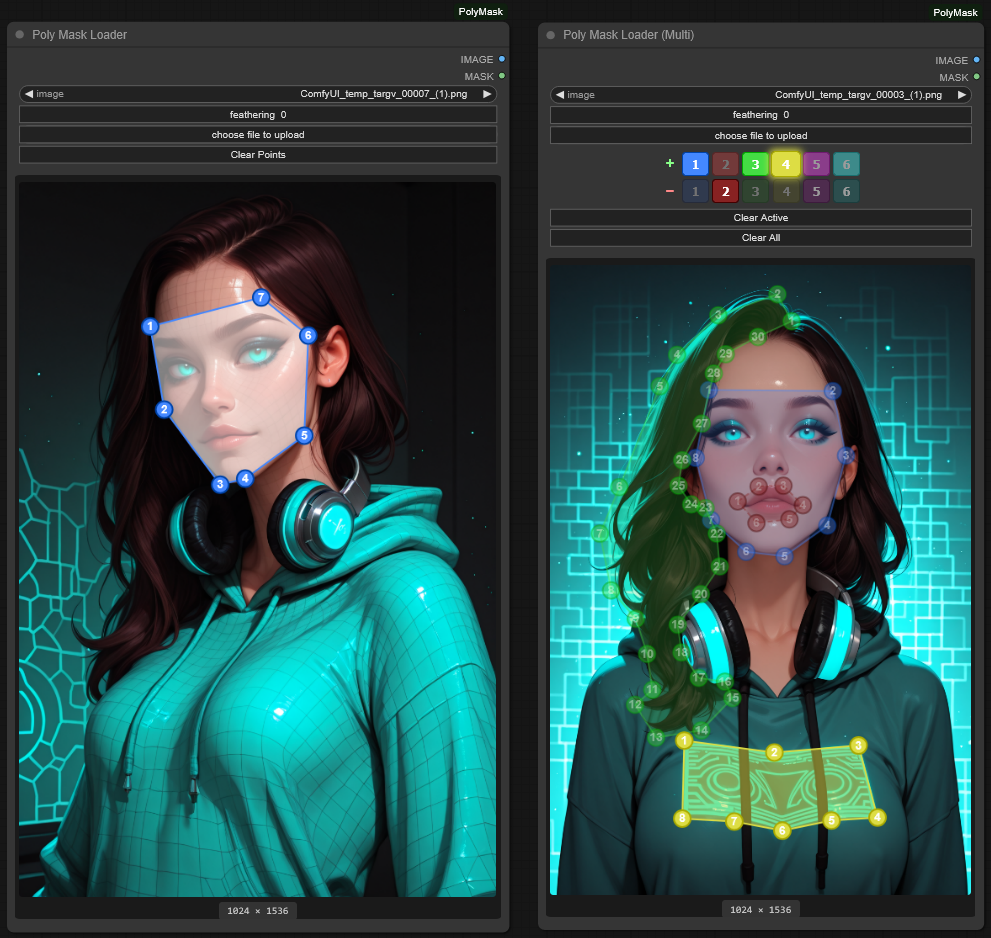
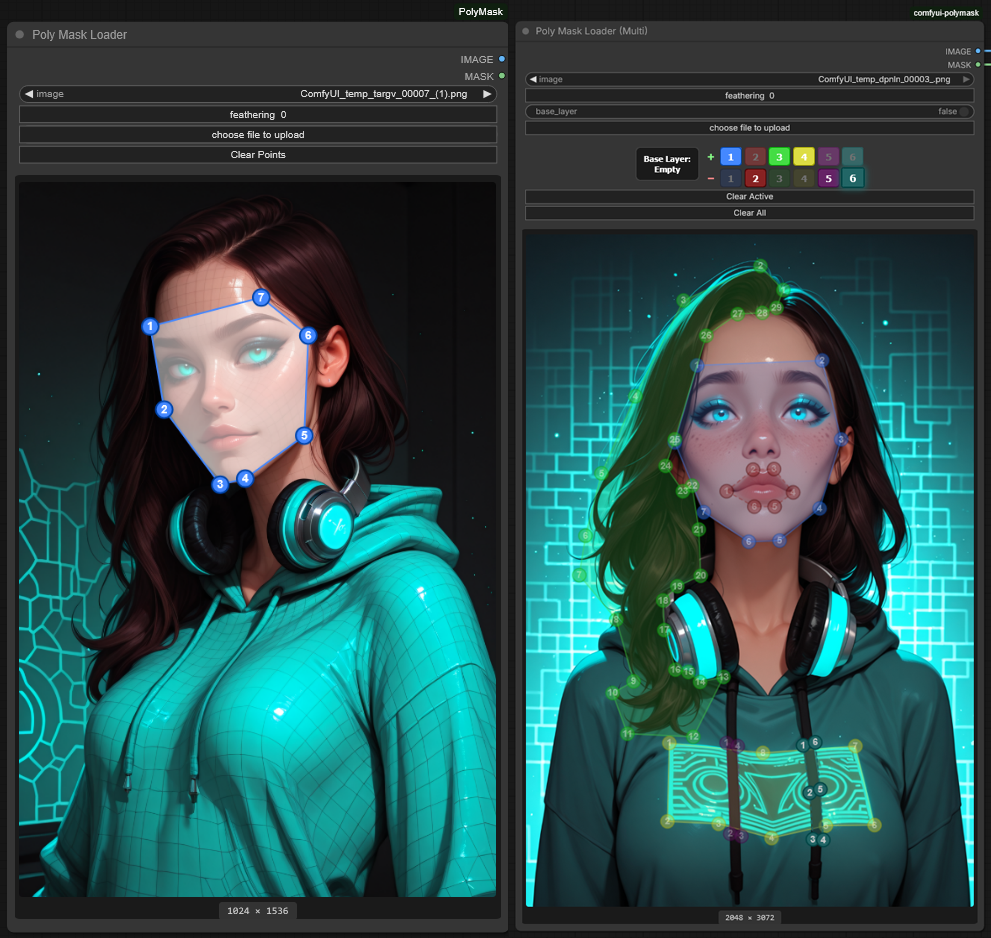
Added 'Base Layer: Empty / Full' Functionality to the multi polygon node.

Changed region(s): [[0.5146, 0.0, 1.0, 1.0]]

diff --git a/js/poly_mask_multi_widget.js b/js/poly_mask_multi_widget.js
@@ -29,6 +29,8 @@ app.registerExtension({
             this.draggingPointIndex = -1;
             this.draggingPointPolygon = -1;
             this.currentCanvasHeight = 200;
+            // Base layer: true (mask starts filled/full) or false (mask starts empty)
+            this.baseLayer = false;
             
             // Configuration
             this.pointRadius = 10;
@@ -98,13 +100,20 @@ app.registerExtension({
             // Find image widget
             const imageWidget = this.widgets.find(w => w.name === "image");
             
-            // Create polygon selector buttons container with two rows
+            // Create polygon selector buttons container with two rows + base toggle on right
             const selectorContainer = document.createElement("div");
             selectorContainer.style.display = "flex";
-            selectorContainer.style.flexDirection = "column";
-            selectorContainer.style.gap = "4px";
+            selectorContainer.style.flexDirection = "row";
+            selectorContainer.style.gap = "8px";
             selectorContainer.style.justifyContent = "center";
+            selectorContainer.style.alignItems = "stretch";
             selectorContainer.style.padding = "4px";
+            
+            // Left side: polygon rows
+            const polygonRowsContainer = document.createElement("div");
+            polygonRowsContainer.style.display = "flex";
+            polygonRowsContainer.style.flexDirection = "column";
+            polygonRowsContainer.style.gap = "4px";
             
             // Additive row
             const addRow = document.createElement("div");
@@ -219,15 +228,52 @@ app.registerExtension({
                 this.polygonButtonsSub.push(btnSub);
             }
             
-            selectorContainer.appendChild(addRow);
-            selectorContainer.appendChild(subRow);
+            polygonRowsContainer.appendChild(addRow);
+            polygonRowsContainer.appendChild(subRow);
+            
+            // Base Layer toggle button (spans both rows on the LEFT)
+            const baseToggleBtn = document.createElement("button");
+            baseToggleBtn.textContent = "Base Layer:\nEmpty";
+            baseToggleBtn.style.minWidth = "70px";
+            baseToggleBtn.style.padding = "4px 10px";
+            baseToggleBtn.style.borderRadius = "6px";
+            baseToggleBtn.style.border = "2px solid #444";
+            baseToggleBtn.style.background = "#1a1a1a";
+            baseToggleBtn.style.color = "#fff";
+            baseToggleBtn.style.fontWeight = "bold";
+            baseToggleBtn.style.fontSize = "12px";
+            baseToggleBtn.style.cursor = "pointer";
+            baseToggleBtn.style.whiteSpace = "pre-line";
+            baseToggleBtn.style.lineHeight = "1.3";
+            baseToggleBtn.style.textAlign = "center";
+            baseToggleBtn.style.transition = "background 0.15s, border-color 0.15s";
+
+            baseToggleBtn.addEventListener("click", () => {
+                node.baseLayer = !node.baseLayer;
+                node.updateBaseLayerButton();
+                node.updatePolygonData();
+                node.renderCanvas();
+            });
+
+            baseToggleBtn.addEventListener("mouseenter", () => {
+                baseToggleBtn.style.background = node.baseLayer ? "#4a4a4a" : "#2a2a2a";
+            });
+            baseToggleBtn.addEventListener("mouseleave", () => {
+                baseToggleBtn.style.background = node.baseLayer ? "#3a3a3a" : "#1a1a1a";
+            });
+
+            this.baseToggleBtn = baseToggleBtn;
+            
+            // Add base button on LEFT, then polygon rows
+            selectorContainer.appendChild(baseToggleBtn);
+            selectorContainer.appendChild(polygonRowsContainer);
             
             // Add selector as DOM widget
             const selectorWidget = this.addDOMWidget("polygon_selector", "POLYGON_SELECTOR", selectorContainer, {
                 serialize: false,
             });
             selectorWidget.computeSize = function() {
-                return [200, 70];
+                return [320, 74];
             };
             
             // Add Clear Active button
@@ -242,9 +288,28 @@ app.registerExtension({
                 for (let i = 0; i < 6; i++) {
                     node.polygons[i].points = [];
                 }
+                // Also reset base layer to empty
+                if (node.baseLayer) {
+                    node.baseLayer = false;
+                    node.updateBaseLayerButton();
+                }
                 node.updatePolygonData();
                 node.renderCanvas();
             });
+
+            // If the underlying node input widget exists, set its initial value and watch for changes
+            const baseWidgetInit = this.widgets.find(w => w.name === "base_layer");
+            if (baseWidgetInit) {
+                baseWidgetInit.value = this.baseLayer;
+                // Watch for changes from the widget toggle
+                const origCallback = baseWidgetInit.callback;
+                baseWidgetInit.callback = function(value) {
+                    if (origCallback) origCallback.apply(this, arguments);
+                    node.baseLayer = value;
+                    node.updateBaseLayerButton();
+                    node.renderCanvas();
+                };
+            }
             
             // Create container for our canvas
             const container = document.createElement("div");
@@ -542,6 +607,37 @@ app.registerExtension({
             return null;
         };
         
+        // Check if any polygon has points
+        nodeType.prototype.hasAnyPolygonPoints = function() {
+            for (let i = 0; i < 6; i++) {
+                if (this.polygons[i].points.length > 0) {
+                    return true;
+                }
+            }
+            return false;
+        };
+        
+        // Update base layer button appearance to match current state
+        nodeType.prototype.updateBaseLayerButton = function() {
+            if (this.baseToggleBtn) {
+                this.baseToggleBtn.textContent = this.baseLayer ? "Base Layer:\nFull" : "Base Layer:\nEmpty";
+                this.baseToggleBtn.style.background = this.baseLayer ? "#3a3a3a" : "#1a1a1a";
+                this.baseToggleBtn.style.borderColor = this.baseLayer ? "#888" : "#444";
+            }
+            const baseWidget = this.widgets?.find(w => w.name === "base_layer");
+            if (baseWidget) baseWidget.value = this.baseLayer;
+        };
+        
+        // Auto-switch base layer to full if adding subtractive polygon with no existing points
+        nodeType.prototype.autoSwitchBaseLayerIfNeeded = function() {
+            const activeMode = this.polygons[this.activePolygonIndex].mode;
+            // If in subtractive mode and no polygons have points yet, switch base to full
+            if (activeMode === "subtract" && !this.hasAnyPolygonPoints() && !this.baseLayer) {
+                this.baseLayer = true;
+                this.updateBaseLayerButton();
+            }
+        };
+        
         // Setup canvas events
         nodeType.prototype.setupCanvasEvents = function() {
             const node = this;
@@ -585,6 +681,7 @@ app.registerExtension({
                         canvas.setPointerCapture(e.pointerId);
                     } else if (node.hoveredLineIndex !== -1) {
                         // Insert point on active polygon's line
+                        node.autoSwitchBaseLayerIfNeeded();
                         const imgCoords = node.canvasToImage(x, y);
                         const insertIndex = node.hoveredLineIndex + 1;
                         node.polygons[node.activePolygonIndex].points.splice(insertIndex, 0, { x: imgCoords.x, y: imgCoords.y });
@@ -594,6 +691,7 @@ app.registerExtension({
                         node.renderCanvas();
                     } else {
                         // Add point to active polygon
+                        node.autoSwitchBaseLayerIfNeeded();
                         const imgCoords = node.canvasToImage(x, y);
                         node.polygons[node.activePolygonIndex].points.push({ x: imgCoords.x, y: imgCoords.y });
                         node.updatePolygonData();
@@ -734,6 +832,18 @@ app.registerExtension({
                 } catch (e) {
                     return;
                 }
+                // Visualize base layer: subtle overlay + white border when base is full (true)
+                if (this.baseLayer) {
+                    ctx.save();
+                    // Subtle white overlay
+                    ctx.fillStyle = "rgba(255,255,255,0.08)";
+                    ctx.fillRect(0, 0, w, h);
+                    // White border outline
+                    ctx.strokeStyle = "rgba(255,255,255,0.7)";
+                    ctx.lineWidth = 4;
+                    ctx.strokeRect(2, 2, w - 4, h - 4);
+                    ctx.restore();
+                }
             } else {
                 ctx.fillStyle = "#555";
                 ctx.font = "14px sans-serif";
@@ -855,6 +965,7 @@ app.registerExtension({
             if (onSerialize) onSerialize.apply(this, arguments);
             o.multi_polygons = this.polygons;
             o.multi_activeIndex = this.activePolygonIndex;
+            o.multi_baseLayer = this.baseLayer;
         };
         
         // Deserialization
@@ -874,6 +985,16 @@ app.registerExtension({
             
             if (o.multi_activeIndex !== undefined) {
                 this.activePolygonIndex = o.multi_activeIndex;
+            }
+
+            if (o.multi_baseLayer !== undefined) {
+                // Handle both old string format and new boolean format for backwards compatibility
+                if (typeof o.multi_baseLayer === "string") {
+                    this.baseLayer = o.multi_baseLayer === "full";
+                } else {
+                    this.baseLayer = o.multi_baseLayer;
+                }
+                this.updateBaseLayerButton();
             }
             
             this.updatePolygonData();

diff --git a/poly_mask_node_multi.py b/poly_mask_node_multi.py
@@ -34,22 +34,23 @@ class PolyMaskNodeMulti:
                     "display": "slider"
                 }),
                 "polygon_data": ("STRING", {"default": "[]", "multiline": False}),
+                "base_layer": ("BOOLEAN", {"default": False}),
             },
         }
     
     @classmethod
-    def IS_CHANGED(cls, image, feathering, polygon_data="[]"):
+    def IS_CHANGED(cls, image, feathering, polygon_data="[]", base_layer=False):
         image_path = folder_paths.get_annotated_filepath(image)
         m_time = os.path.getmtime(image_path)
-        return f"{image}_{m_time}_{feathering}_{polygon_data}"
+        return f"{image}_{m_time}_{feathering}_{polygon_data}_{base_layer}"
     
     @classmethod
-    def VALIDATE_INPUTS(cls, image, feathering, polygon_data="[]"):
+    def VALIDATE_INPUTS(cls, image, feathering, polygon_data="[]", base_layer=False):
         if not folder_paths.exists_annotated_filepath(image):
             return f"Invalid image file: {image}"
         return True
     
-    def load_image_and_mask(self, image, feathering, polygon_data="[]"):
+    def load_image_and_mask(self, image, feathering, polygon_data="[]", base_layer=False):
         image_path = folder_paths.get_annotated_filepath(image)
         img = Image.open(image_path)
         
@@ -71,7 +72,7 @@ class PolyMaskNodeMulti:
             polygons = []
         
         width, height = img.size
-        mask_array = self._create_combined_mask(width, height, polygons, feathering)
+        mask_array = self._create_combined_mask(width, height, polygons, feathering, base_layer)
         
         mask_tensor = torch.from_numpy(mask_array).unsqueeze(0)
         
@@ -95,9 +96,12 @@ class PolyMaskNodeMulti:
             pass
         return img
     
-    def _create_combined_mask(self, width, height, polygons, feather_amount):
-        # Start with empty mask
-        combined_mask = np.zeros((height, width), dtype=np.float32)
+    def _create_combined_mask(self, width, height, polygons, feather_amount, base_layer=False):
+        # Start with base layer: True=full (ones), False=empty (zeros)
+        if base_layer:
+            combined_mask = np.ones((height, width), dtype=np.float32)
+        else:
+            combined_mask = np.zeros((height, width), dtype=np.float32)
         
         # Process polygons in order (0-5) - higher index overrides lower
         for polygon_obj in polygons:
@@ -120,12 +124,9 @@ class PolyMaskNodeMulti:
                     # Subtractive: remove from existing mask
                     combined_mask = np.where(mask_array > 0, 0, combined_mask)
         
-        # If no valid polygons, return all white (no mask)
-        if combined_mask.max() == 0 and not any(
-            p.get('mode') == 'subtract' and len(p.get('points', [])) >= 3 
-            for p in polygons
-        ):
-            return np.ones((height, width), dtype=np.float32)
+        # If there are no polygons at all, return the base layer as-is
+        if not polygons or len(polygons) == 0:
+            return combined_mask
         
         # Apply feathering to combined mask
         if feather_amount > 0:

diff --git a/README.md b/README.md
@@ -7,7 +7,7 @@ A ComfyUI custom node for creating polygon masks directly in the workflow editor
 ## Features
 
 - **Poly Mask Loader** - Single polygon mask creation
-- **Poly Mask Loader (Multi)** - Up to 6 polygon masks with additive/subtractive modes
+- **Poly Mask Loader (Multi)** - Up to 6 polygon masks with additive/subtractive modes and base layer control
 
 ### Controls
 
@@ -19,6 +19,9 @@ A ComfyUI custom node for creating polygon masks directly in the workflow editor
 | Right click on point | Delete point |
 | Click button in + row | Set polygon to additive mode & select |
 | Click button in − row | Set polygon to subtractive mode & select |
+| Click "Base Layer" button | Toggle base layer between empty and full |
+| Click "Clear Active" button | Clear all points from the active polygon |
+| Click "Clear All" button | Clear all points from all polygons and reset base layer to empty |
 
 ### Polygon Modes
 
@@ -30,6 +33,21 @@ A ComfyUI custom node for creating polygon masks directly in the workflow editor
 - Polygons are processed in order (1→6)
 - Higher-numbered polygons override lower ones in overlapping areas
 - Subtractive polygons appear with darker colors and dashed lines
+
+### Base Layer
+
+The **Base Layer** button (left side of polygon selector) controls the starting state of the mask:
+
+| State | Value | Effect |
+|-------|-------|--------|
+| **Empty** (default) | `false` | Base layer of mask starts transparent |
+| **Full** | `true` | Base layer of mask starts fully opaque |
+
+**Visual Indicator:** When base layer is set to **Full**, the canvas displays a subtle white overlay and border outline.
+
+**Auto-Switch Behavior:** When you add the first point to a subtractive polygon while the base layer is empty and no other polygons exist, the base layer automatically switches to **Full** (since subtractive mode requires something to subtract from).
+
+**Note:** The `base_layer` input is a boolean parameter. When connecting external nodes to control the base layer state, use `false` for empty and `true` for full.
 
 ### Parameters
 
@@ -65,7 +83,9 @@ Find the nodes under the **image** category:
 3. Click a number in the **+** row to create an additive polygon
 4. Draw points on the canvas to define the mask area
 5. Optionally click a number in the **−** row to create a subtractive polygon that cuts out from existing masks
+   - The base layer will automatically switch to **Full** when you add your first subtractive point (if it was empty and no other polygons exist)
 6. Adjust feathering as needed
+7. Use the **Base Layer** button to manually toggle between Empty and Full if needed
 
 ## License
 
